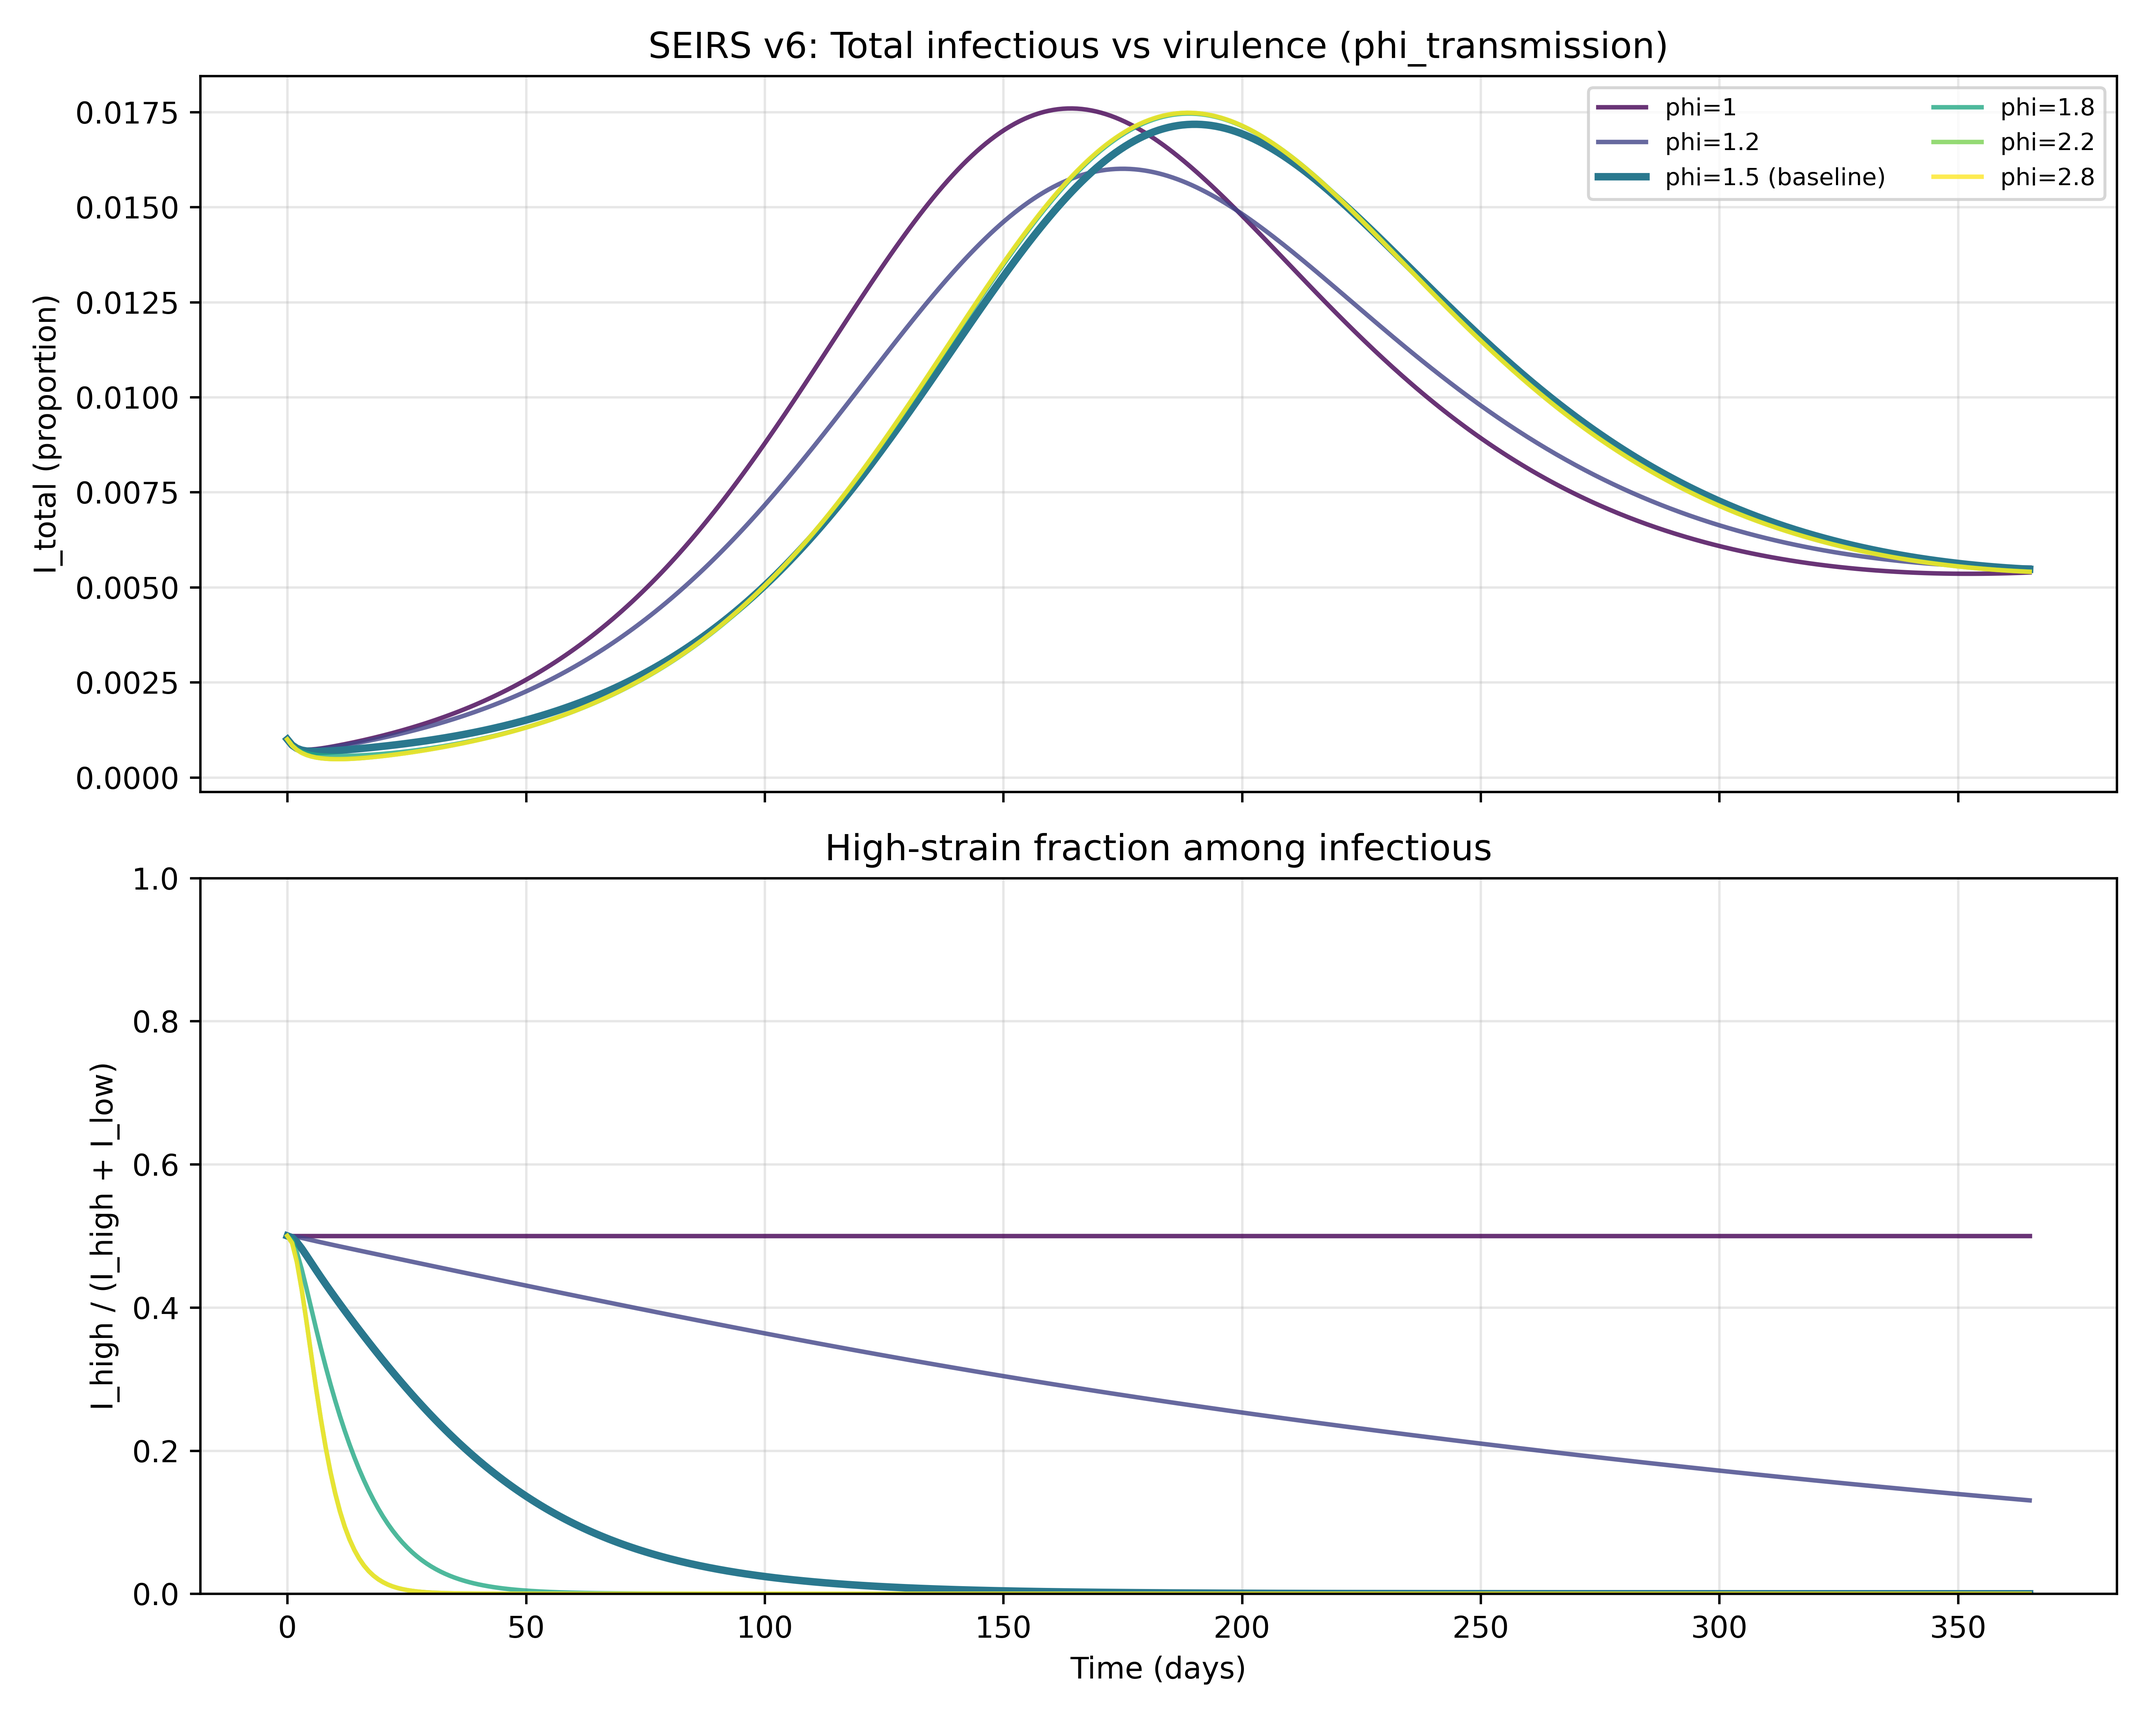
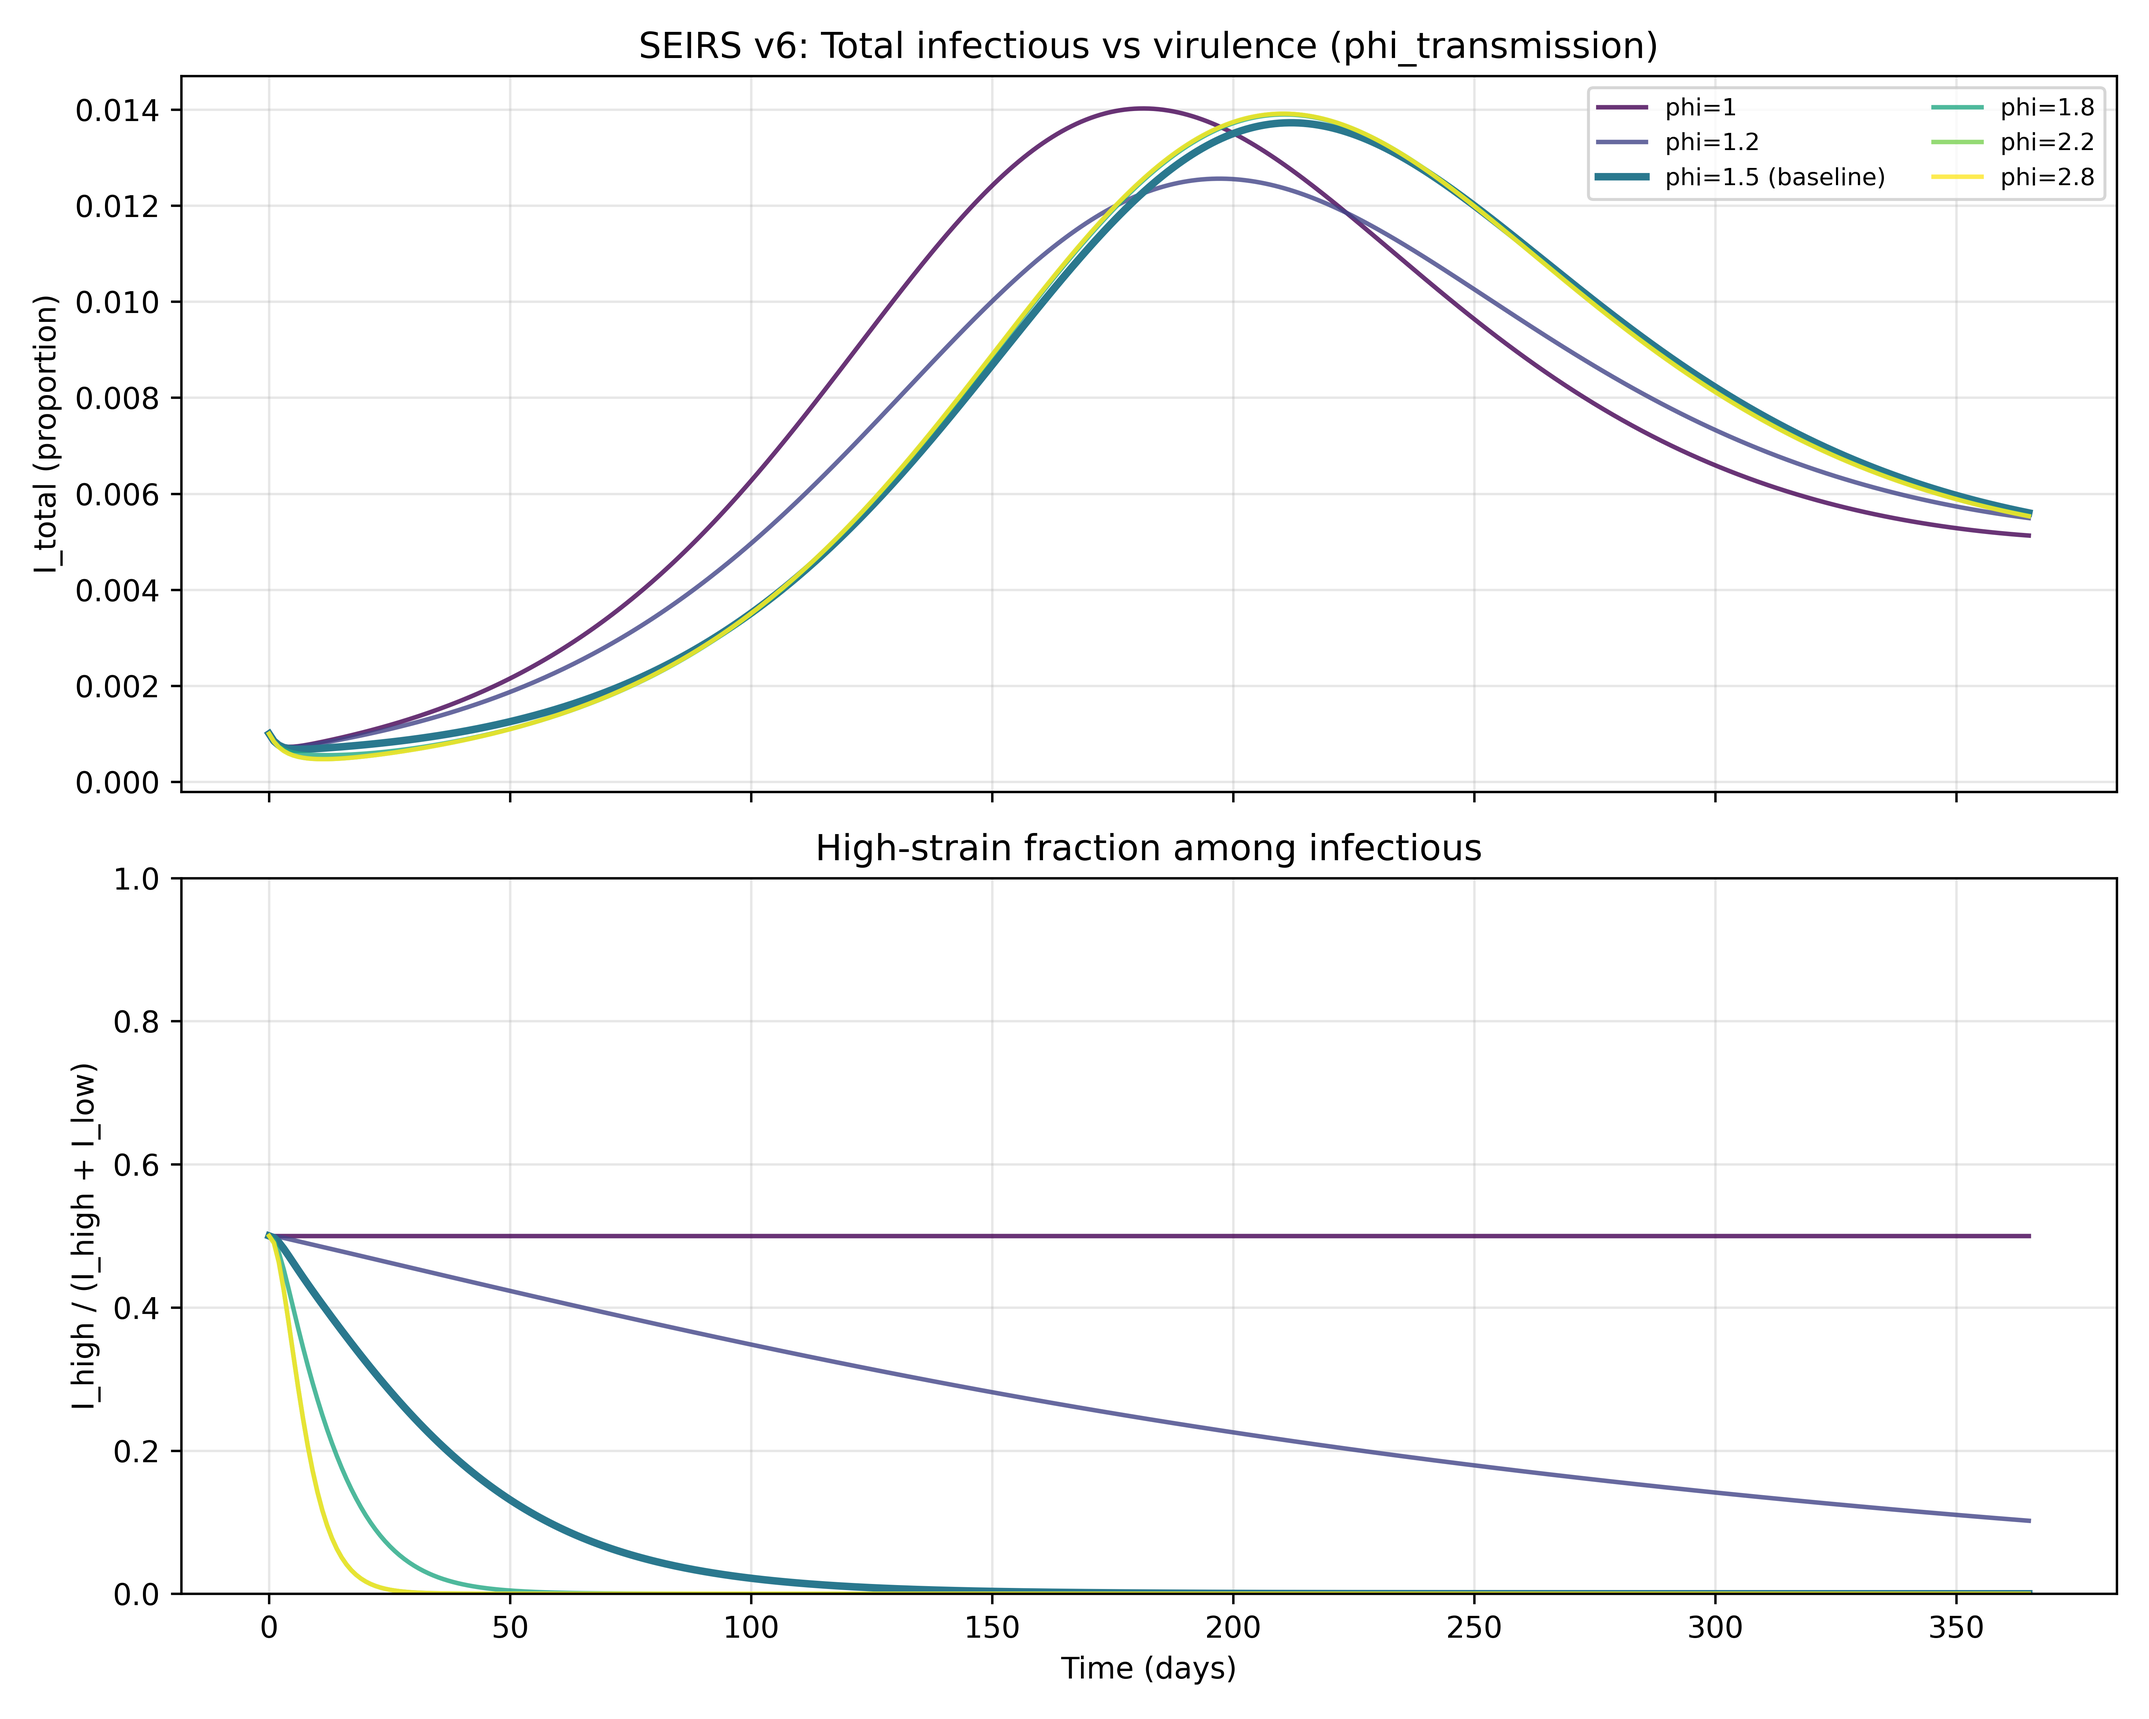
Update virulence exploration script and summary data with new drug effect parameters and revised output figures

diff --git a/Scripts/Exploration_virulence.py b/Scripts/Exploration_virulence.py
@@ -58,32 +58,42 @@ def params_tuple_v6(phi_t: float) -> Tuple[float, ...]:
        drug_contact_multiplier, drug_transmission_multiplier,
        birth_rate, death_rate, delta,
        kappa_base, kappa_scale, phi_recover, sigma, tau, theta)
-
-    NOTE: For this exploration we set drug_contact_multiplier = 1 and
-    drug_transmission_multiplier = 1 so the drug has no behavioral effect.
     """
     c_low = float(getattr(P, "contact_rate", 10.0))
-    r_low = float(getattr(P, "transmission_probability_low",
-                          getattr(P, "transmission_probability", 0.025)))
+    r_low = float(
+        getattr(P, "transmission_probability_low",
+                getattr(P, "transmission_probability", 0.025))
+    )
 
-    m_c_drug = 1.0
-    m_r_drug = 1.0
+    # Drug effects (read from params; default to 1.0 if not present)
+    drug_contact_multiplier = float(getattr(P, "drug_contact_multiplier", 1.0))
+    drug_transmission_multiplier = float(getattr(P, "drug_transmission_multiplier", 1.0))
+
+    birth_rate = float(getattr(P, "birth_rate", 0.0))
+    death_rate = float(getattr(P, "death_rate", 0.0))
+    delta = float(getattr(P, "delta", 0.0))
+    kappa_base = float(getattr(P, "kappa_base", 1.0))
+    kappa_scale = float(getattr(P, "kappa_scale", 1.0))
+    phi_recover = float(getattr(P, "phi_recover", 1.0))
+    sigma = float(getattr(P, "sigma", 1 / 5))
+    tau = float(getattr(P, "tau", 1 / 3))
+    theta = float(getattr(P, "theta", 0.3))
 
     return (
         c_low,
         r_low,
         float(phi_t),
-        m_c_drug,
-        m_r_drug,
-        float(getattr(P, "birth_rate", 0.0)),
-        float(getattr(P, "death_rate", 0.0)),
-        float(getattr(P, "delta", 0.0)),
-        float(getattr(P, "kappa_base", 1.0)),
-        float(getattr(P, "kappa_scale", 1.0)),
-        float(getattr(P, "phi_recover", 1.0)),
-        float(getattr(P, "sigma", 1 / 5)),
-        float(getattr(P, "tau", 1 / 3)),
-        float(getattr(P, "theta", 0.3)),
+        drug_contact_multiplier,
+        drug_transmission_multiplier,
+        birth_rate,
+        death_rate,
+        delta,
+        kappa_base,
+        kappa_scale,
+        phi_recover,
+        sigma,
+        tau,
+        theta,
     )
 
 
